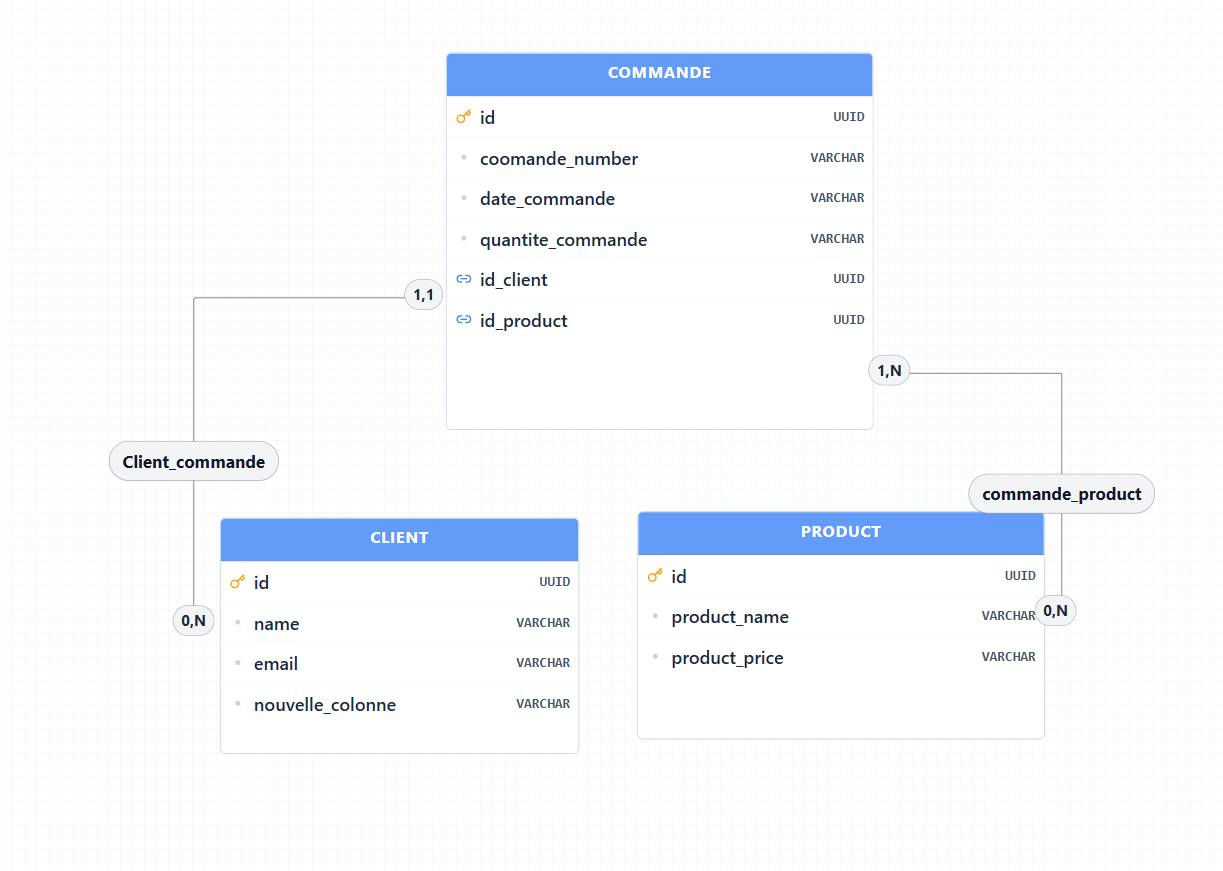
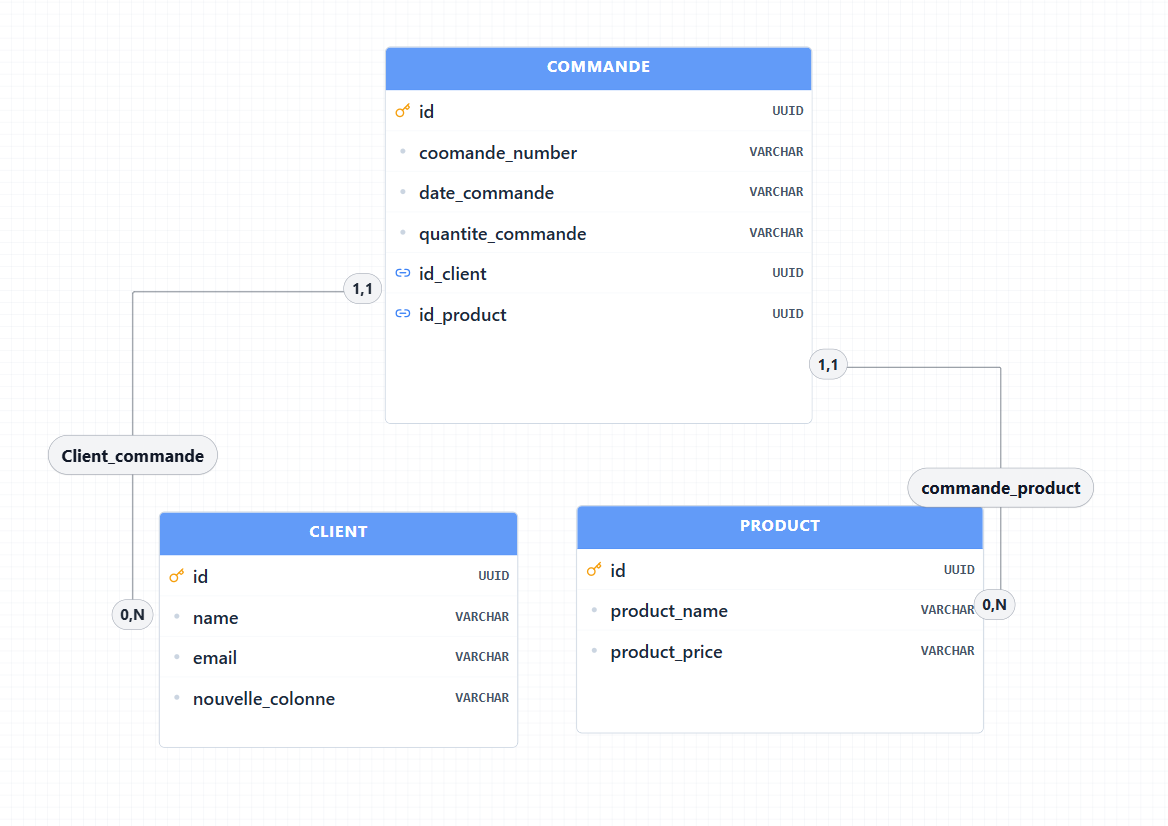
fixed rellation

diff --git a/10_Identify the associations and cardinalities.md b/10_Identify the associations and cardinalities.md
@@ -6,7 +6,7 @@ products -- present --commandes
 
 ##  cardinalities:
 client -(0,N)- places -(1,1)- Commnade.
-commande -(1-N)- contiens -(0,N)- products
+commande -(1-1)- contiens -(0,N)- products
 
 
 ## MCD:
